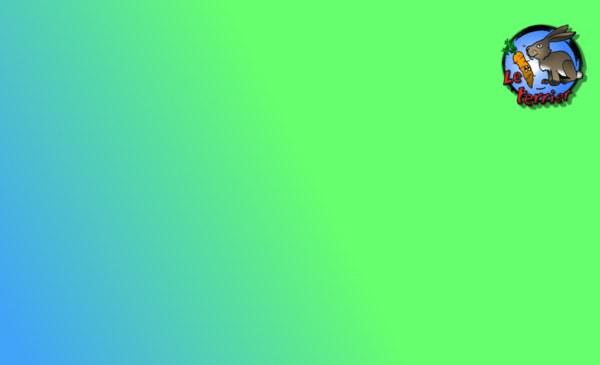
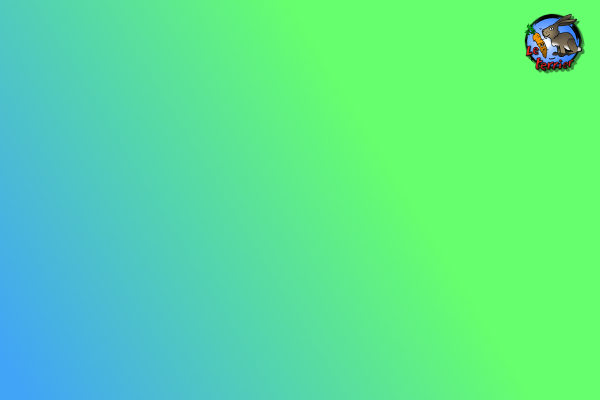
taille fixe de la fenetre

Changed region(s): [[0.48, 0.4521, 0.75, 1.0], [0.81, 0.0301, 0.99, 0.3014], [0.48, 0.4219, 0.51, 0.4521]]

diff --git a/main.cpp b/main.cpp
@@ -5,6 +5,7 @@ int main(int argc, char *argv[])
 {
     QApplication a(argc, argv);
     MainWindow w;
+    w.setFixedSize(600, 400);
     w.show();
     return a.exec();
 }
